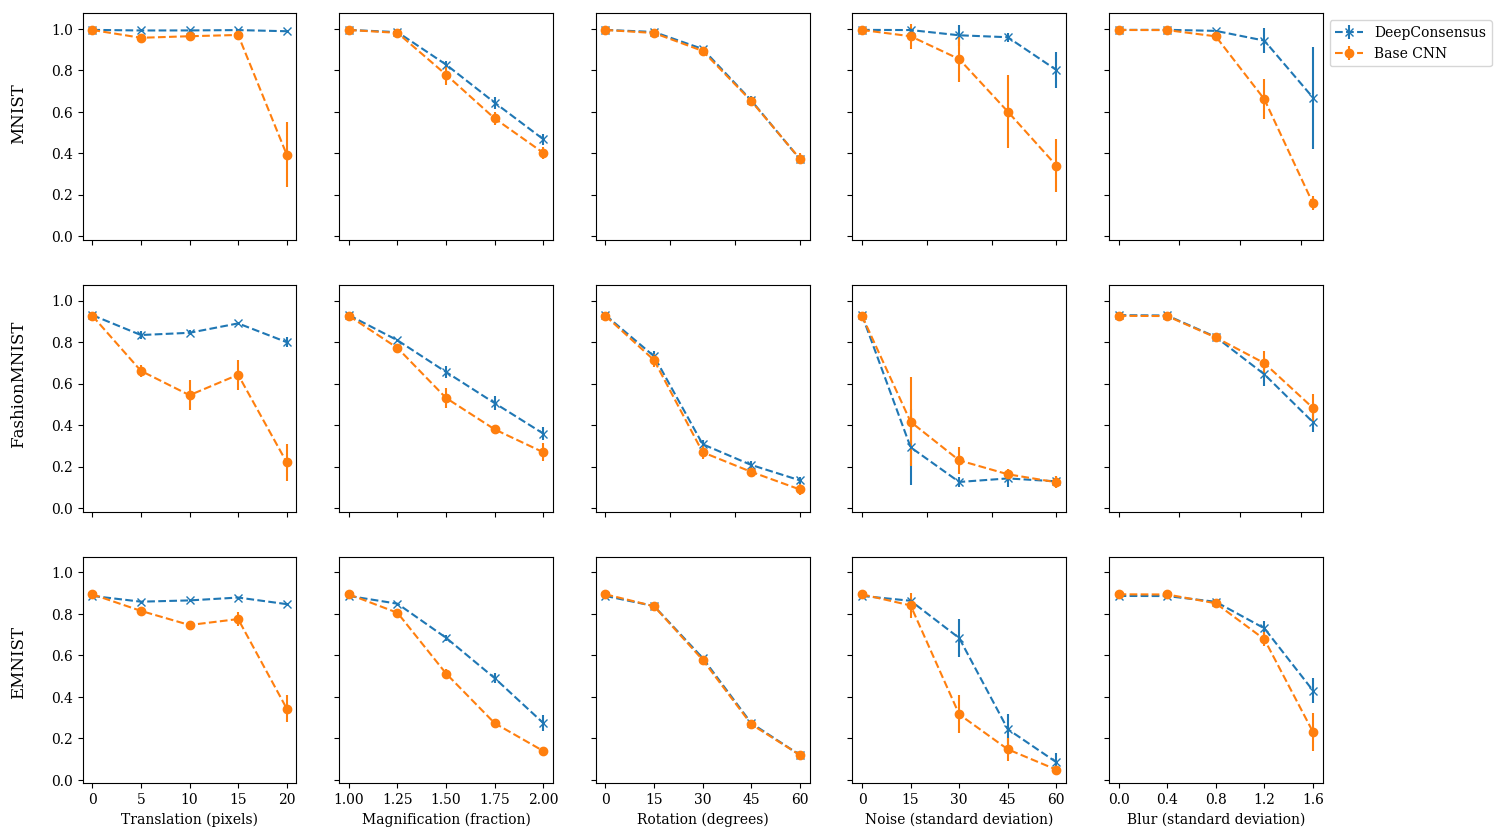
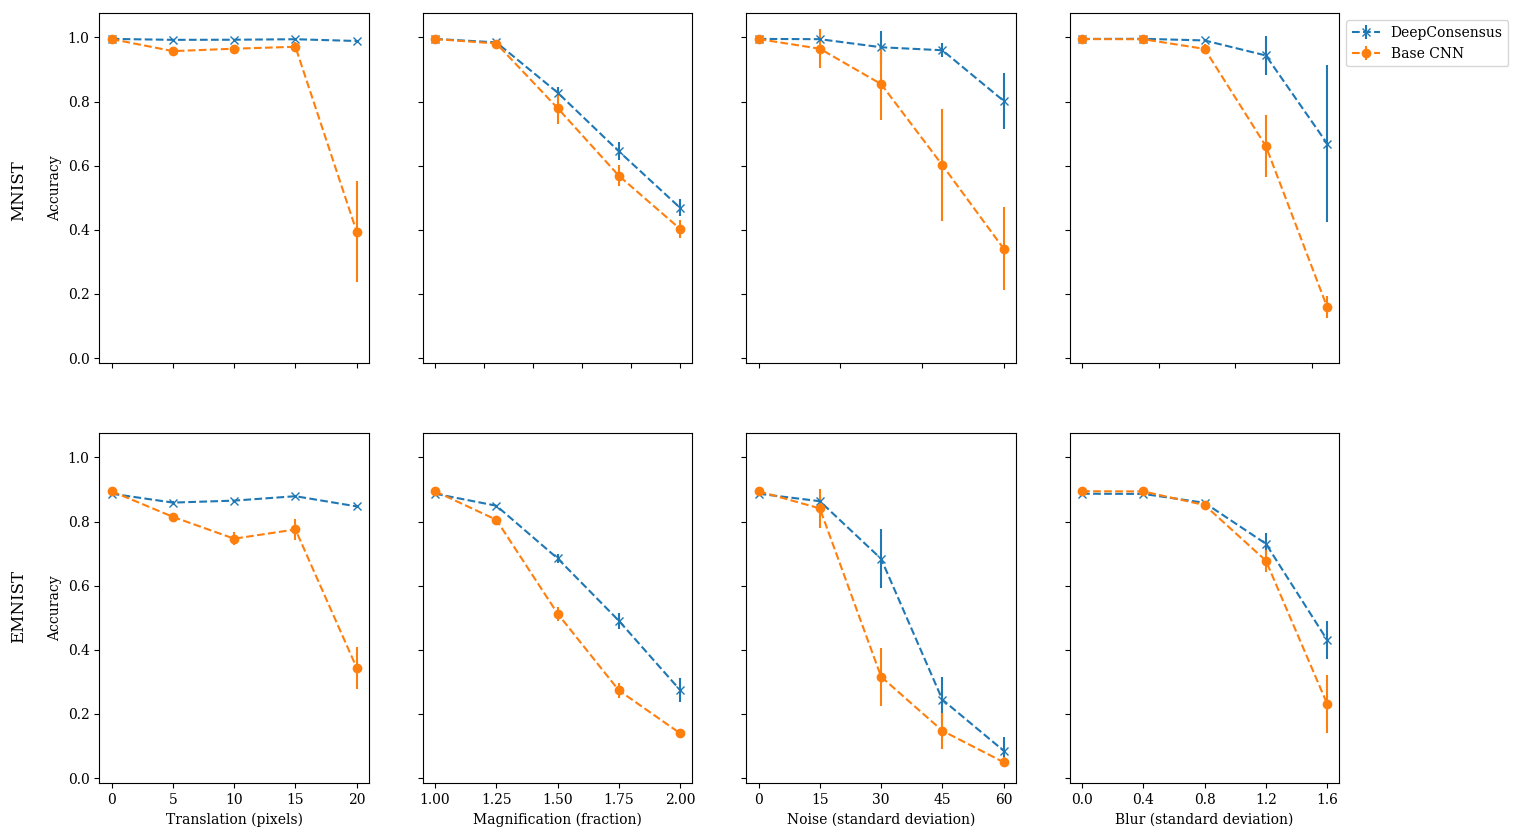
Added MNIST rot

diff --git a/src/comparison.py b/src/comparison.py
@@ -7,7 +7,7 @@ MNIST = ("MNIST", "abc")
 FASHION = ("FashionMNIST", "def")
 EMNIST = ("EMNIST", "ghi")
 
-DSETS = [MNIST, FASHION, EMNIST]
+DSETS = [MNIST, EMNIST]
 
 DC = "dc"
 CN = "cnn"
@@ -22,7 +22,7 @@ def iter_split():
     i = 0
     for grp in SPLIT:
         for perturb in grp:
-            if perturb[0] != "degraded signal":
+            if perturb[0] not in ["degraded signal", "Rotation"]:
                 yield i, perturb
                 i += 1
 
@@ -36,9 +36,8 @@ STD = "std"
 def plot():
     pyplot.rcParams["font.family"] = "serif"
     num_dsets = len(DSETS)
-    num_perturbs = 5
+    num_perturbs = 4
     fig, axes = pyplot.subplots(nrows=num_dsets, ncols=num_perturbs, sharey=True)
-    #axes = {}
     fig.set_size_inches(16, 10)
     for c, (dsetname, _) in enumerate(DSETS):
         dset = GROUPS[dsetname]
@@ -52,11 +51,13 @@ def plot():
                 plt.errorbar(paxis, mdata[MIU], yerr=mdata[STD], fmt=p + "--")
     
     for c in range(num_dsets):
+        y = 0.52
         if c == 1:
-            y = 0.75
-        else:
-            y = 0.6
+            y = 0.55
         axes[c, 0].set_title(DSETS[c][0], rotation="vertical", x=-0.3, y=y)
+    
+        axes[c, 0].set_ylabel("Accuracy")
+
     for i, (pname, punit, paxis) in iter_split():
         plt = axes[-1, i]
         plt.set_xlabel("%s (%s)" % (pname, punit))
@@ -116,7 +117,7 @@ def add_group(dname, i, miu, std, perturbtype=None, modeltype=None):
 @misc.main
 def main():
     
-    data = "abcdefghi"
+    data = "abcghi"
     
     indx = list(range(1, 17))
     

diff --git a/src/misc/parse_amat.py b/src/misc/parse_amat.py
@@ -1,0 +1,46 @@
+import numpy, tqdm
+from os import path
+
+TRAIN = "mnist_all_rotation_normalized_float_train_valid.amat"
+TEST = "mnist_all_rotation_normalized_float_test.amat"
+
+DIR = path.dirname(__file__)
+DATA = path.join(DIR, "..", "..", "data", "mnist-rot")
+
+def get_trainset(folder=DATA):
+    return parse_amat(path.join(folder, TRAIN))
+
+def get_testset(folder=DATA):
+    return parse_amat(path.join(folder, TEST))
+
+def parse_amat(f):
+    dats = []
+    labs = []
+    for d, l in tqdm.tqdm(_parse_amat(f), desc="Loading amat file", ncols=80):
+        dats.append(d)
+        labs.append(l)
+    data = numpy.array(dats).reshape((-1, 28, 28))
+    return data, numpy.array(labs)
+
+def _parse(f):
+    with open(f) as fi:
+        for line in fi:
+            yield line.rstrip().split(" ")
+
+def _str2float(arr):
+    return [float(v) for v in arr]
+
+def _parse_amat(f):
+    for dataline in _parse(f):
+        if dataline:
+            data = _str2float(dataline[:-1])
+            label = float(dataline[-1])
+            yield data, label
+
+if __name__ == "__main__":
+    dats, labs = parse_amat(TRAIN)
+    
+    from matplotlib import pyplot
+    
+    pyplot.imshow(dats[5], cmap="gray", vmin=0, vmax=1)
+    pyplot.show()

diff --git a/src/misc/data.py b/src/misc/data.py
@@ -4,6 +4,7 @@ from .geometry import generate_circle, generate_square
 from .corrupt import corrupt
 from .wscipy import scipy
 import scipy.misc # because spock2 doesn't have skimage
+import parse_amat
 
 import torch.utils.data
 import torchvision.datasets
@@ -30,6 +31,22 @@ def create_loader(dat, lab, batch):
     dataset = torch.utils.data.TensorDataset(dat, lab)
     dataloader = torch.utils.data.DataLoader(dataset, batch_size=batch, shuffle=True)
     return dataloader
+
+def get_mnist_rot(download=0):
+    NUM_CLASSES = 10
+    CHANNELS = 1
+    IMAGESIZE = (32, 32)
+    
+    train_data, train_labels = parse_amat.get_trainset()
+    train_labels = torch.from_numpy(train_labels).long()
+    train_data = torch.from_numpy(train_data).view(-1, 1, 28, 28).float()
+    train_data = convert_size(train_data, IMAGESIZE)
+    
+    test_data, test_labels = parse_amat.get_testset()
+    test_data = torch.from_numpy(test_data).view(-1, 1, 28, 28).float()
+    test_data = convert_size(test_data, IMAGESIZE)
+    test_labels = torch.from_numpy(test_labels).long()
+    return train_data, train_labels, test_data, test_labels, NUM_CLASSES, CHANNELS, IMAGESIZE
 
 def get_stl10(download=0, resize=None):
     download = int(download)

diff --git a/src/p4m_results.py b/src/p4m_results.py
@@ -1,0 +1,17 @@
+# All tests made after 30 epochs
+
+# 126K parameter Group Equivariant P4M Network: for translation, rotation and mirror equivariance.
+GC_TRANS4 = [0.29339999228715896, 0.2156999945640564, 0.23819999322295188]
+GC_ROTA45 = [0.7066999810934067, 0.6831999826431274, 0.7002999794483185]
+GC_ROTA90 = [0.2294999997317791, 0.20759999953210354, 0.17400000020861625]
+GC_MIRROR = [0.40409999758005144, 0.3839999990165234, 0.3924999985098839]
+GC_rStand = 
+
+# 132K parameter DeepConsensus
+DC_TRANS4 =
+DC_ROTA45 =
+DC_ROTA90 = [0.16370000012218952, 0.19499999977648258, 0.1718000001460314]
+DC_MIRROR = [0.3682000008225441, 0.3999999985098839, 0.37430000156164167]
+DC_rStand = 
+
+

diff --git a/src/train.py b/src/train.py
@@ -83,6 +83,7 @@ def main(
         "mnist64-quadrants": misc.data.get_mnist64quads,
         "mnist-rgb": misc.data.get_mnistrgb,
         "mnist-rgb-corrupt": misc.data.get_mnistrgb_corrupt,
+        "mnist-rot": misc.data.get_mnist_rot,
         "fashion": misc.data.get_fashionmnist,
         "fashion64-corrupt": misc.data.get_fashionmnist64_corrupt,
         "svhn": misc.data.get_svhn,

diff --git a/src/cnn.py b/src/cnn.py
@@ -7,8 +7,6 @@ class Cnn(models.Savable):
     def __init__(self, channels, classes, imagesize, *args, **kwargs):
         super(Cnn, self).__init__()
         
-        
-        
         self.net = torch.nn.Sequential(
             torch.nn.AvgPool2d(4),
             models.Reshape(256),
